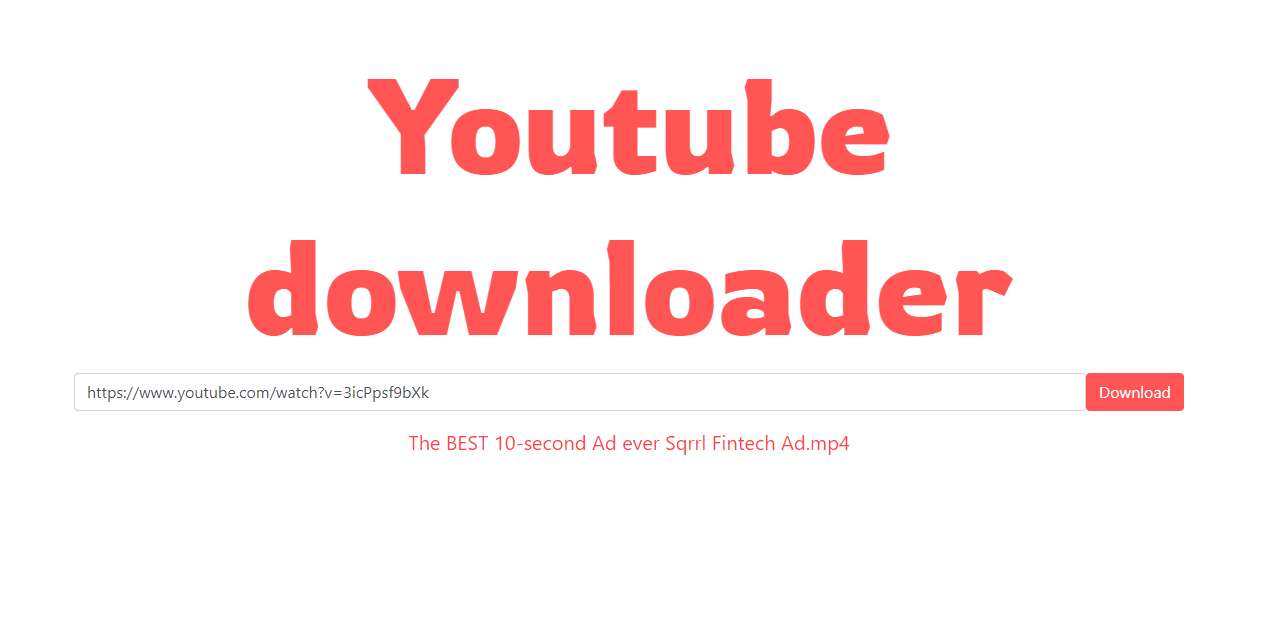
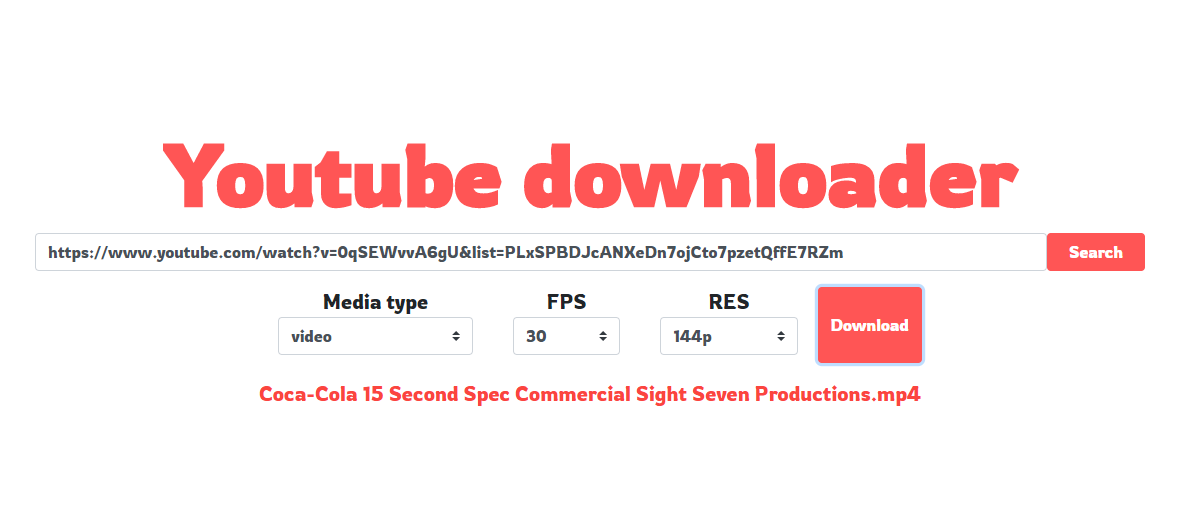
UI 및 기존 구조 수정

diff --git a/templates/index.html b/templates/index.html
@@ -14,9 +14,22 @@
 <div class="container">
     <h1>Youtube downloader</h1>
 
-    <form class="form-group" id="youtube-download-form" method="GET">
+    <form class="form-group" id="youtube-get-support-spec-form" method="GET">
         <input class="form-control" id="url" type="text" name="url"
                placeholder="https://www.youtube.com/watch?v=3icPpsf9bXk"/>
+        <input class="btn" type="submit" value="Search"/>
+    </form>
+
+    <form class="form-group" id="youtube-download-form" method="GET">
+        <label class="youtube-download-form-select-media-type-label"> Media type
+            <select class="custom-select youtube-download-form-select-media-type"> </select>
+        </label>
+        <label class="youtube-download-form-select-fps-label"> FPS
+            <select class="custom-select youtube-download-form-select-fps"> </select>
+        </label>
+        <label class="youtube-download-form-select-res-label"> RES
+            <select class="custom-select youtube-download-form-select-res"> </select>
+        </label>
         <input class="btn" type="submit" value="Download"/>
     </form>
 
@@ -39,15 +52,98 @@
 <script src="https://code.jquery.com/jquery-3.5.1.min.js"></script>
 <script>
     $(document).ready(function () {
-        $("#youtube-download-form").submit(function (e) {
+        $(".youtube-download-form").hide();
+        let searched_video_id = null;
+
+        $('select.youtube-download-form-select-media-type').change(function () {
+            if (this.value === "video") {
+                // visible
+                $(".youtube-download-form-select-fps-label").show();
+                $(".youtube-download-form-select-res-label").show();
+            } else {
+                // hide
+                $(".youtube-download-form-select-fps-label").hide();
+                $(".youtube-download-form-select-res-label").hide();
+            }
+        });
+
+        $("#youtube-get-support-spec-form").submit(function (e) {
             e.preventDefault();
 
             let url = $("#url").val();
             let params = getUrlParams(url);
             if (params.v == null) {
-                console.log("This is not correct Youtube url.");
+                alert("This is not correct Youtube url.");
                 return;
             }
+
+            let data = {
+                v: params.v
+            };
+
+            showLoader();
+            $.ajax({
+                type: "GET",
+                dataType: 'json',
+                contentType: "application/json",
+                url: "/get-support-spec",
+                data: data,
+                success: function (response, status, xhr) {
+                    if (response.status === "SUCCESS") {
+                        let type_list = response.type_list.sort().reverse();
+                        let fps_list = response.fps_list.sort();
+                        let res_list = response.res_list.sort((a, b) => {
+                            let value1 = a.replace("p", "");
+                            let value2 = b.replace("p", "");
+
+                            if (Number(value1) > Number(value2)) {
+                                return 1;
+                            }
+
+                            if (Number(value1) < Number(value2)) {
+                                return -1;
+                            }
+
+                            return 0;
+                        });
+
+                        setOptions($(".youtube-download-form-select-media-type"), type_list);
+                        setOptions($(".youtube-download-form-select-fps"), fps_list);
+                        setOptions($(".youtube-download-form-select-res"), res_list);
+
+
+                        $(".youtube-download-form").show();
+                        searched_video_id = params.v;
+
+                        return;
+                    }
+
+                    showAlert(response.message);
+                    showAlert(response.error);
+                },
+                error: function (jqXhr, textStatus, errorMessage) {
+                    showAlert(errorMessage);
+                },
+                complete: function (data) {
+                    hideLoader();
+                }
+            });
+        });
+
+        $("#youtube-download-form").submit(function (e) {
+            e.preventDefault();
+
+            if (searched_video_id == null) {
+                alert("Please search youtube media that you want to download.");
+                return;
+            }
+
+            let data = {
+                v: searched_video_id,
+                media_type: $("select.youtube-download-form-select-media-type").val(),
+                fps: $("select.youtube-download-form-select-fps").val(),
+                res: $("select.youtube-download-form-select-res").val()
+            };
 
             showLoader();
             $.ajax({
@@ -55,14 +151,12 @@
                 dataType: 'json',
                 contentType: "application/json",
                 url: "/download",
-                data: {
-                    v: params.v
-                },
+                data: data,
                 success: function (response, status, xhr) {
                     if (response.status === "SUCCESS") {
                         {# <a> #}
                         let a = document.createElement("a");
-                        a.href = "/download-video?filename=" + response.filename + "&yyyymmdd=" + response.yyyymmdd;
+                        a.href = response.href;
                         a.text = response.filename;
                         a.download = response.filename;
                         a.click();
@@ -76,7 +170,9 @@
                         return;
                     }
 
-                    alert(response.message + ". " + response.error);
+
+                    showAlert(response.message);
+                    showAlert(response.error);
                 },
                 error: function (jqXhr, textStatus, errorMessage) {
                     alert(errorMessage);
@@ -95,6 +191,20 @@
             return params;
         }
     });
+
+    function setOptions(select, options) {
+        select.children('option').remove();
+
+        options.forEach(function (type) {
+            select.append("<option value='" + type + "'>" + type + "</option>");
+        });
+    }
+
+    function showAlert(message) {
+        if (message != null) {
+            alert(message);
+        }
+    }
 
     function showLoader() {
         $("body").addClass("hide-scroll");

diff --git a/static/css/style.css b/static/css/style.css
@@ -2,6 +2,13 @@ html, body {
     width: 100%;
     height: 100%;
 }
+body * {
+    font-family: "Rowdies", serif;
+}
+
+label {
+    font-size: 20px;
+}
 
 .container {
     display: flex;
@@ -12,27 +19,39 @@ html, body {
 }
 
 .container > h1 {
-    font-family: "Rowdies", serif;
     font-size: 7vw;
+    font-weight: bold;
     background-color: white;
     color: #ff5555;
 }
 
-.container > form {
+#youtube-get-support-spec-form {
     display: flex;
     flex-direction: row;
     flex-wrap: wrap;
     width: 100%;
 }
 
-.container > form > input[type='text'] {
+#youtube-get-support-spec-form > input[type='text'] {
     display: inline-block;
     flex-grow: 1;
     width: calc(100% - 98px);
 }
 
-.container > form > input[type='submit'] {
+#youtube-get-support-spec-form > input[type='submit'] {
     width: 98px;
+}
+
+#youtube-download-form {
+    display: flex;
+    flex-direction: row;
+    flex-wrap: wrap;
+    justify-content: center;
+}
+
+#youtube-download-form > label {
+    margin-right: 20px;
+    margin-left: 20px;
 }
 
 .btn {

diff --git a/core/downloader.py b/core/downloader.py
@@ -13,38 +13,78 @@ class Downloader:
     def __init__(self, output_path=None):
         self.output_path = output_path
 
-    def download(self, v):
+    def get_youtube_url(self, video_id):
+        return "https://www.youtube.com/watch?v={video_id}".format(video_id=video_id)
+
+    def get_support_spec(self, url):
+        type_list = []
+        fps_list = []
+        res_list = []
+        for stream in YouTube(url).streams:
+            if stream.type is not None:
+                type_list.append(stream.type)
+            if stream.fps is not None:
+                fps_list.append(stream.fps)
+            if stream.resolution is not None:
+                res_list.append(stream.resolution)
+
+        return list(set(type_list)), list(set(fps_list)), list(set(res_list))
+
+    # v: video_id
+    # fps: 30fps, 60fps
+    # res: 360p 480p, 720p 1080p
+    # type: # video, audio
+    def download(self, v, fps=30, res="360p", media_type="video"):
         yyyymmdd = time.strftime('%Y%m%d')
         save_home = os.path.join(self.output_path, yyyymmdd)
         if not os.path.exists(save_home):
             os.makedirs(save_home)
 
-        url = "https://www.youtube.com/watch?v={video_id}".format(video_id=v)
-        video = YouTube(url).streams.first()
-        seq_filename, file_extension = self.get_seq_filename(save_home, video.default_filename)
+        url = self.get_youtube_url(v)
+        streams = YouTube(url).streams
+
+        if media_type is "video":
+            media = streams.filter(fps=fps, res=res, type=media_type, file_extension="mp4").first()
+        else:  # audio
+            media = streams.filter(type=media_type).first()
+
+        if media is None:
+            return {
+                "status": "FAIL",
+                "message": "Couldn't find the youtube media. Please check media spec."
+                           " url: {url}, media_type: {media_type}, fps: {fps}, res: {res}".format(url=url,
+                                                                                                  media_type=media_type,
+                                                                                                  fps=fps,
+                                                                                                  res=res),
+                "error": "NOT_FOUND_EXCEPTION"
+            }
+
+        seq_filename, file_extension = self.get_seq_filename(save_home, media.default_filename)
 
         logging.info(
-            "[Youtube Downloader] Start youtube download."
-            " default_filename:  {default_filename}"
-            ", seq_filename: {seq_filename}"
-            ", filesize: {filesize} MB".format(default_filename=video.default_filename
-                                               , seq_filename=seq_filename
-                                               , filesize=round(video.filesize / 1024 / 1024, 2)))
+            "[Youtube Downloader] Start to download youtube media."
+            ", filename: {seq_filename}"
+            ", media_type: {media_type}, fps: {fps}, res: {res}"
+            ", filesize: {filesize} MB".format(seq_filename=seq_filename
+                                               , media_type=media_type, fps=fps, res=res
+                                               , filesize=round(media.filesize / 1024 / 1024, 2)))
 
-        saved_path = video.download(output_path=save_home, filename=seq_filename)
+        saved_path = media.download(output_path=save_home, filename=seq_filename)
 
-        logging.info("[Youtube Downloader] Saved the video."
-                     " default_filename:  {default_filename}"
-                     ", seq_filename: {seq_filename}"
-                     ", filesize: {filesize} MB".format(default_filename=video.default_filename
-                                                        , seq_filename=seq_filename
-                                                        , filesize=round(video.filesize / 1024 / 1024, 2)))
+        logging.info(
+            "[Youtube Downloader] Downloaded youtube media."
+            ", filename: {seq_filename}"
+            ", media_type: {media_type}, fps: {fps}, res: {res}"
+            ", filesize: {filesize} MB".format(seq_filename=seq_filename
+                                               , media_type=media_type, fps=fps, res=res
+                                               , filesize=round(media.filesize / 1024 / 1024, 2)))
 
         return {
             "status": "SUCCESS",
             "v": v,
             "yyyymmdd": yyyymmdd,
             "filename": seq_filename + file_extension,
+            "href": "/download-video?filename=" + seq_filename + file_extension + "&yyyymmdd=" + yyyymmdd,
             "saved_path": saved_path
         }
 

diff --git a/app.py b/app.py
@@ -35,6 +35,25 @@ def index():
     return render_template("index.html")
 
 
+@app.route("/get-support-spec")
+def get_support_spec():
+    v = request.args.get("v")
+    if v is None:
+        return {
+            "status": "FAIL",
+            "message": "Url is empty."
+        }
+
+    url = downloader.get_youtube_url(video_id=v)
+    type_list, fps_list, res_list = downloader.get_support_spec(url)
+    return {
+        "status": "SUCCESS",
+        "type_list": type_list,
+        "fps_list": fps_list,
+        "res_list": res_list
+    }
+
+
 @app.route("/download", methods=["GET"])
 def download():
     global result
@@ -44,9 +63,12 @@ def download():
             "status": "FAIL",
             "message": "Url is empty."
         }
+    media_type = request.args.get("media_type")
+    fps = request.args.get("fps")
+    res = request.args.get("res")
 
     try:
-        result = downloader.download(v)
+        result = downloader.download(v=v, fps=fps, res=res, media_type=media_type)
         return result
     except Exception as e:
         logging.error(e)
@@ -67,4 +89,4 @@ def download_video():
 
 
 if __name__ == '__main__':
-    app.run(host='0.0.0.0', port=5003)
+    app.run(host='0.0.0.0', port=5004)
